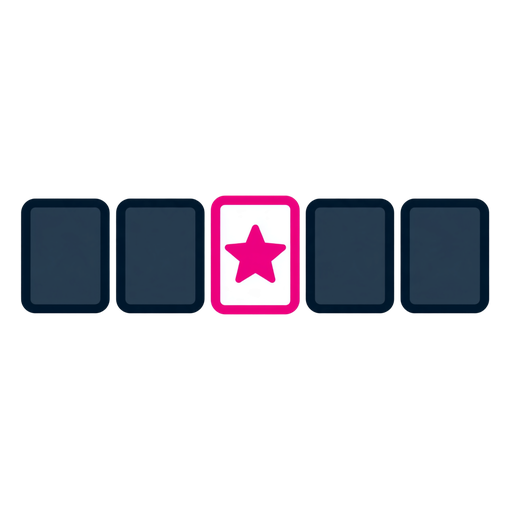
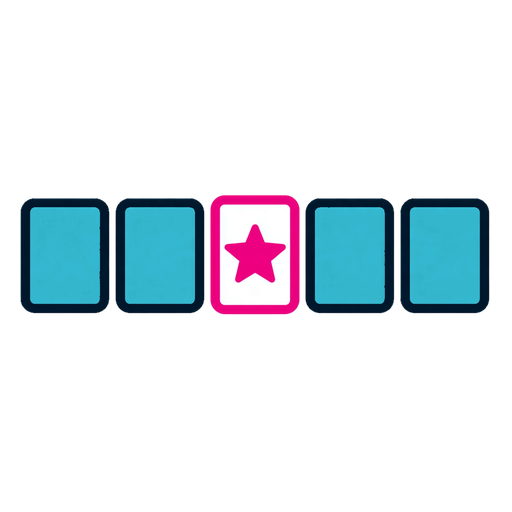
fix(play): los 12 tiles entran en la cuadricula; memory pasa a dorsos cyan
Correccion de lo que dije en el commit anterior: retuve cuatro tiles por una
metrica mala. Media "masa visible" — el porcentaje de pixeles con contraste
>= 2:1 contra el fondo de la tarjeta — y marcaba como perdidos los que tenian
mucho contorno o rejilla de tono medio. La legibilidad no es contraste por
pixel, es estructura local.

La prueba honesta era renderizar a 36 px, que es el tamano al que la
cuadricula los dibuja, y mirar. Hecho eso, audio-blitz, crossword y true-false
se leen perfectamente: los tres entran sin tocarles nada.

El unico roto de verdad era memory. Sus dorsos de carta salieron gris pizarra
(#273C4F, un 26 % de la pieza) y contra el fondo de su tarjeta en tema oscuro
(#2A2365) miden 1,21:1 — practicamente el 1,18:1 que ya nos hizo descartar el
navy como color de masa. Solo se veia la carta girada.

Los dorsos pasan al cyan de marca: 8,05:1. Se probo antes el azul #3768FF, que
da 3,00:1 y bastaria, pero la tarjeta de memory se tinta con --primary, que es
azul-indigo: azul sobre azul. El cyan separa.

El retoque va en la DESCARGA de Midjourney, no en el PNG publicado, porque el
pipeline es determinista desde el raw: asi un --force reproduce el arreglo en
vez de borrarlo. El original sin tocar queda en fase-1/retoques/, que
apply_batch no escanea. El prompt del catalogo tambien pide ya los dorsos cyan,
para que una regeneracion futura no vuelva al gris.

Verificado a 36 px sobre el fondo real de cada tarjeta en los dos temas.

diff --git a/components/play/games-grid-view.tsx b/components/play/games-grid-view.tsx
@@ -17,24 +17,23 @@ const tile = (key: string) => `/images/games/${key}.png`;
  * del sistema, así que sigue al tema claro/oscuro solo, y hace que la
  * cuadrícula se pueda barrer de un vistazo en vez de ser 14 cuadros iguales.
  *
- * Los glifos son las ilustraciones de marca de `public/images/games/`, salvo
- * cuatro que siguen en emoji a propósito. Medidos a 36 px sobre el fondo real
- * de su tarjeta (`--surface` con un 14 % del tono), a esos cuatro les queda
- * menos del 40 % de masa visible en el tema oscuro: están dibujados en navy
- * — rejilla, dorsos de carta, cajas — y el navy sobre tarjeta oscura
- * desaparece. Agrandar el glifo no lo arregla (probado a 56 px: el porcentaje
- * no se mueve), hace falta redibujarlos con relleno claro. Hasta entonces el
- * emoji se lee mejor, que es lo único que importa aquí.
+ * Los glifos son las ilustraciones de marca de `public/images/games/`. Se
+ * revisaron a 36 px — el tamaño al que esta cuadrícula los dibuja — y sobre el
+ * fondo real de su tarjeta (`--surface` con un 14 % del tono), porque medir
+ * contra `--background` da un veredicto que no corresponde a lo que se ve.
+ *
+ * `emoji` sigue en el tipo como red: `FALLBACK` lo usa para un juego que llegue
+ * del backend sin ilustración propia.
  */
 type Skin = { img?: string; emoji?: string; hue: string };
 
 const SKIN: Record<string, Skin> = {
   "/wordle": { img: tile("wordle"), hue: "--success" },
-  "/crossword": { emoji: "✏", hue: "--primary" },
+  "/crossword": { img: tile("crossword"), hue: "--primary" },
   "/dot-match": { img: tile("dot-match"), hue: "--gem" },
-  "/true-false": { emoji: "🃏", hue: "--accent" },
-  "/memory": { emoji: "🧠", hue: "--primary" },
-  "/audio-blitz": { emoji: "🎧", hue: "--gem" },
+  "/true-false": { img: tile("true-false"), hue: "--accent" },
+  "/memory": { img: tile("memory"), hue: "--primary" },
+  "/audio-blitz": { img: tile("audio-blitz"), hue: "--gem" },
   "/word-tower": { img: tile("word-tower"), hue: "--gold" },
   "/sentence-builder": { img: tile("sentence-builder"), hue: "--flame" },
   "/ghost-race": { img: tile("ghost-race"), hue: "--primary" },
